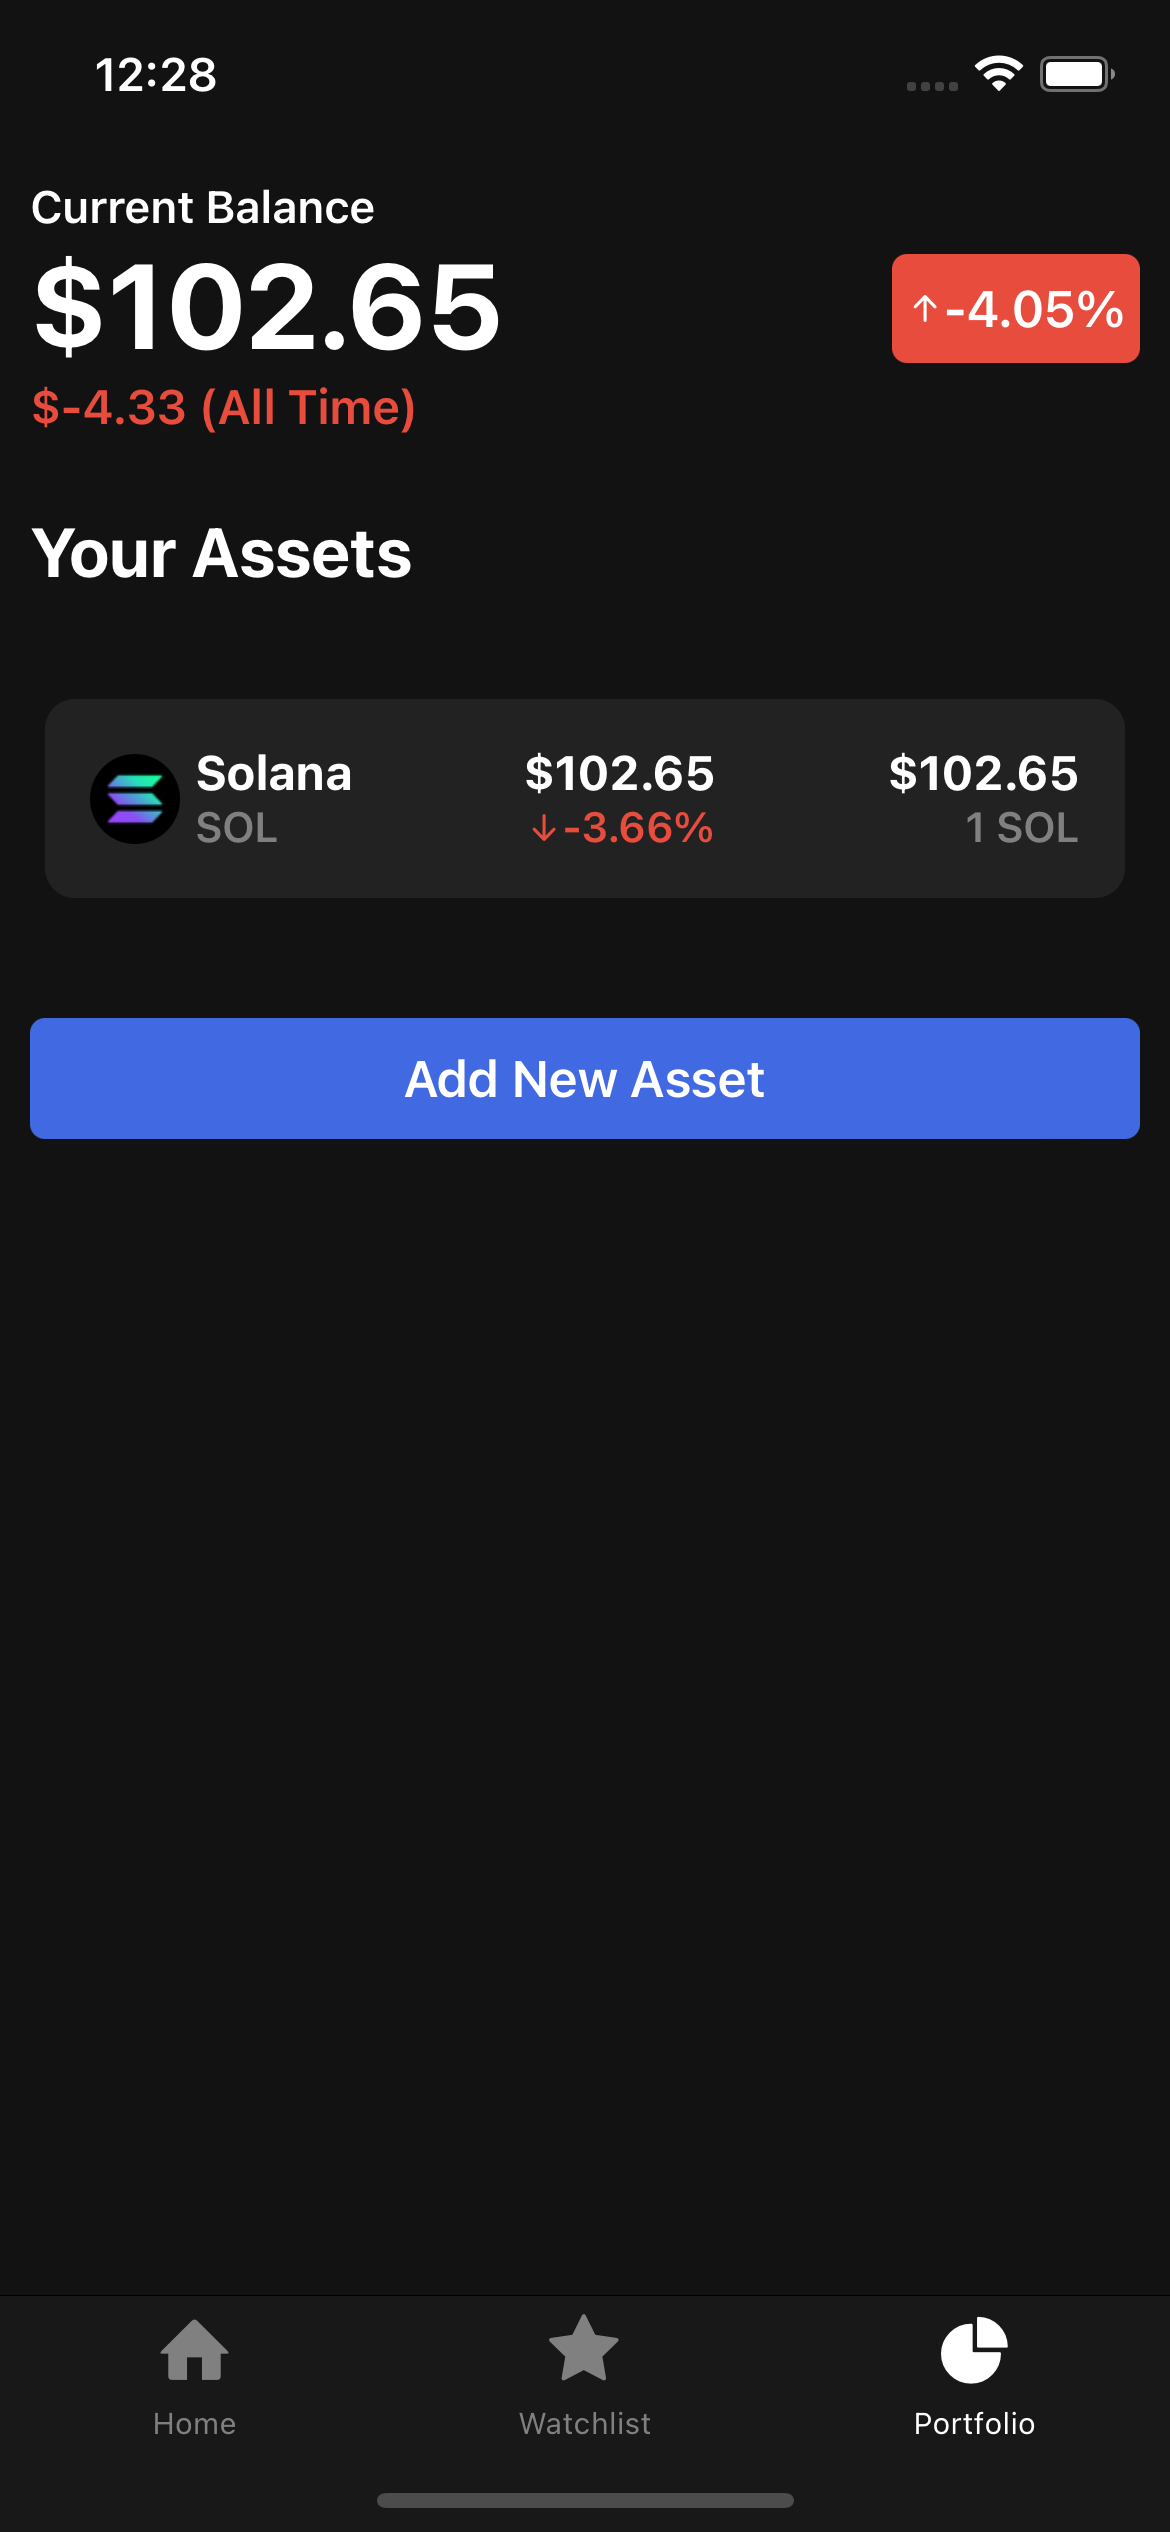
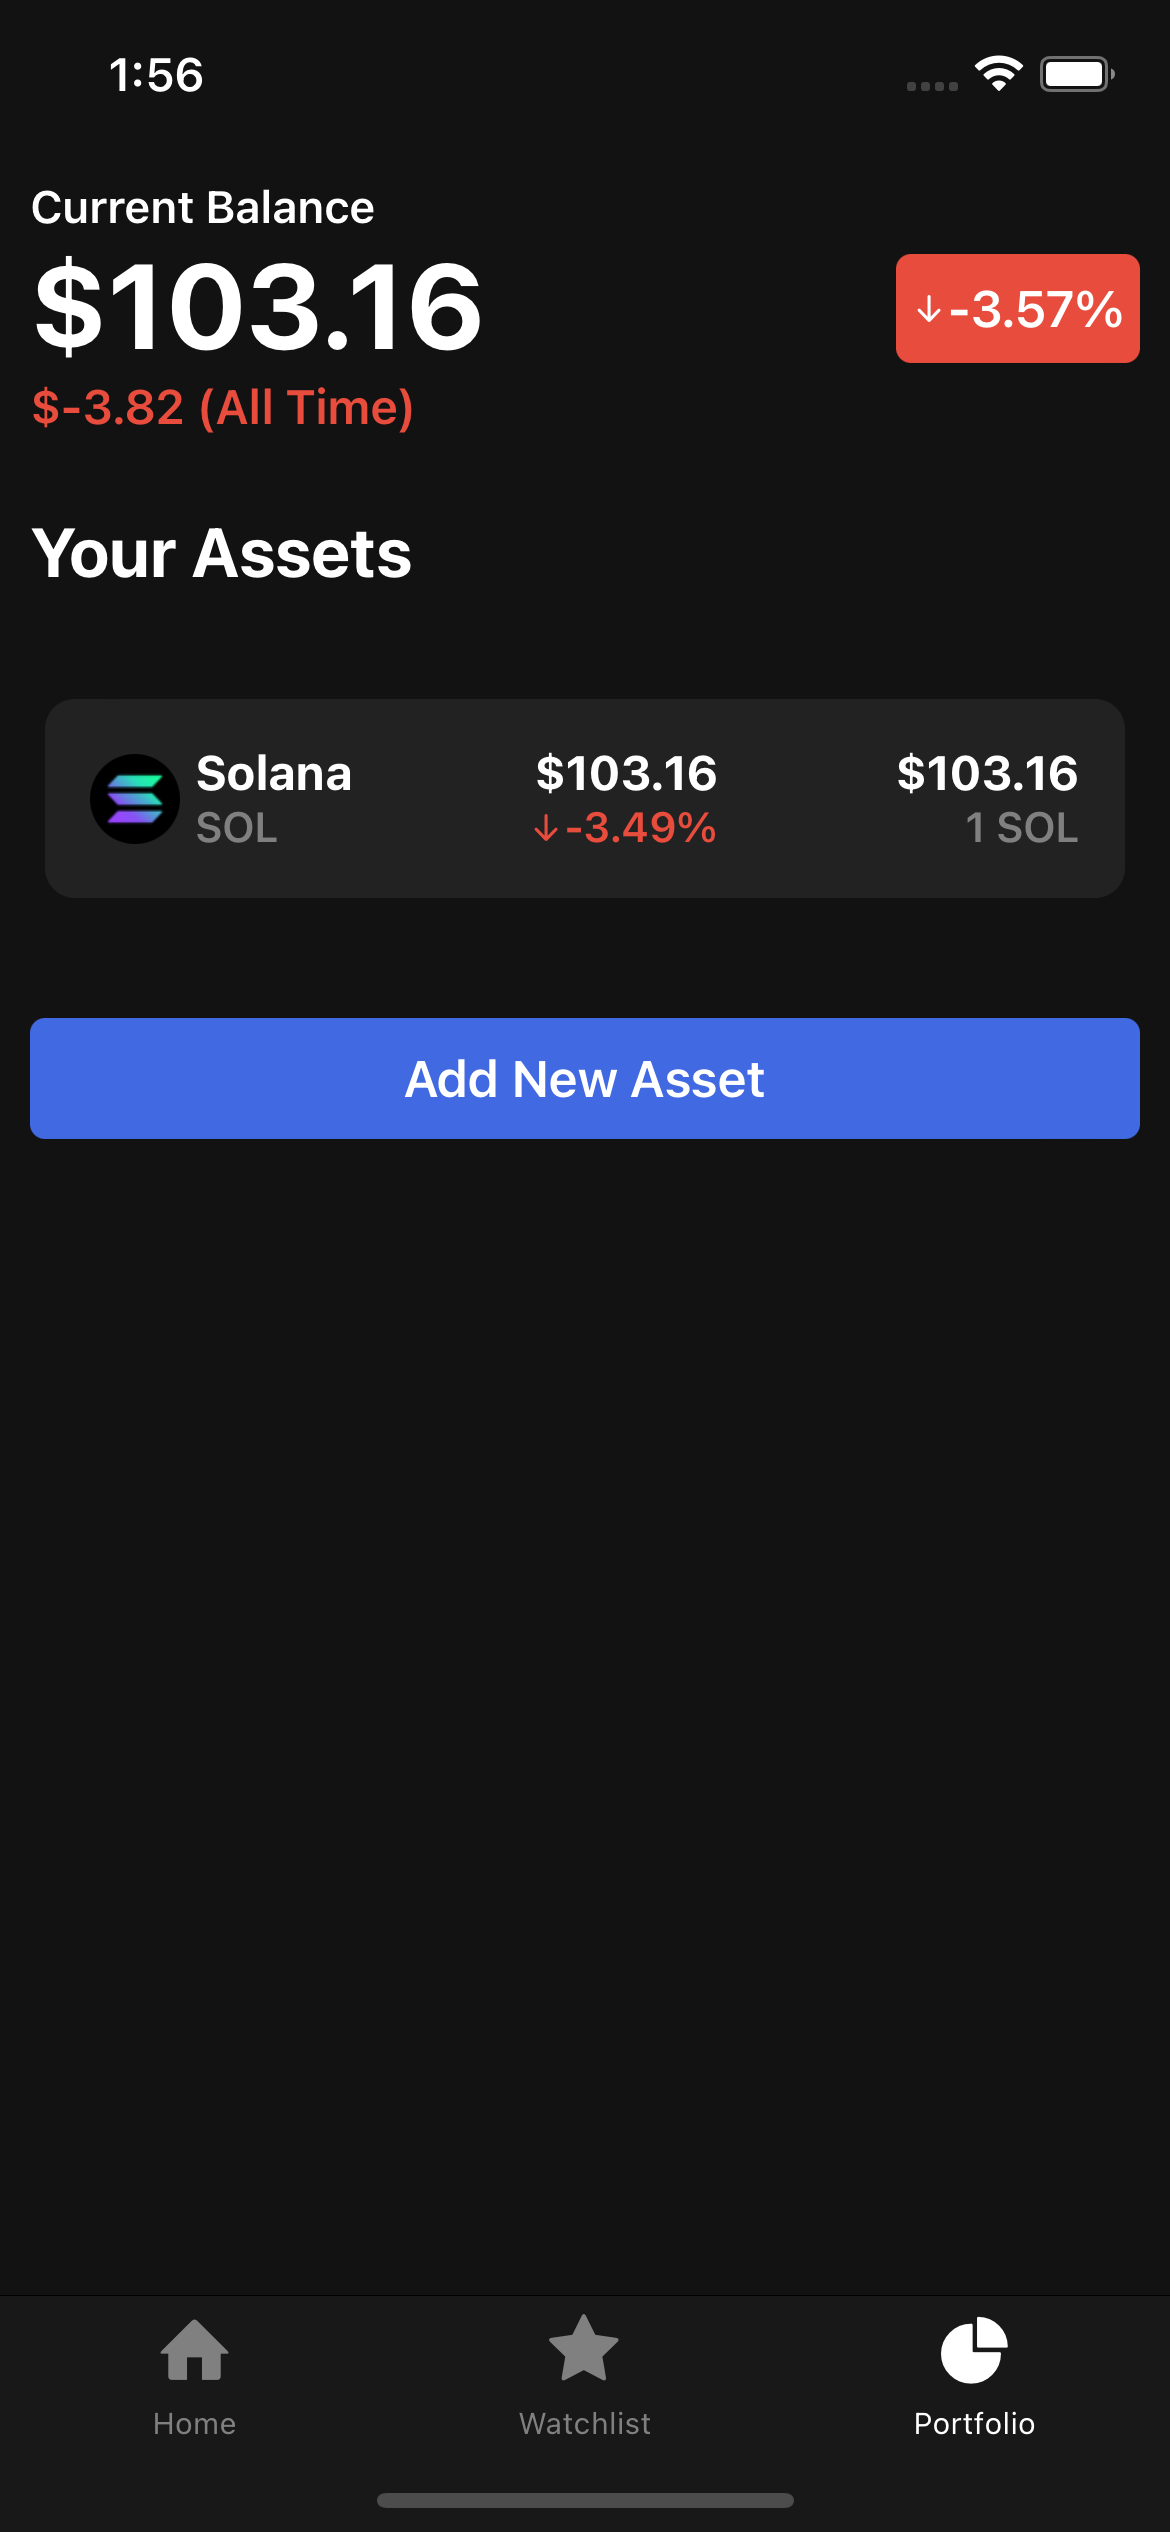
fix a bug

diff --git a/src/components/PortfolioAssestList/index.jsx b/src/components/PortfolioAssestList/index.jsx
@@ -67,7 +67,7 @@ export default function PortfolioAssetsList() {
                 }}
               >
                 <AntDesign
-                  name={"arrowup"}
+                  name={getPercentageChange() >= 0 ? "arrowup" : "arrowdown"}
                   size={12}
                   color={"white"}
                   style={{ alignSelf: "center" }}
